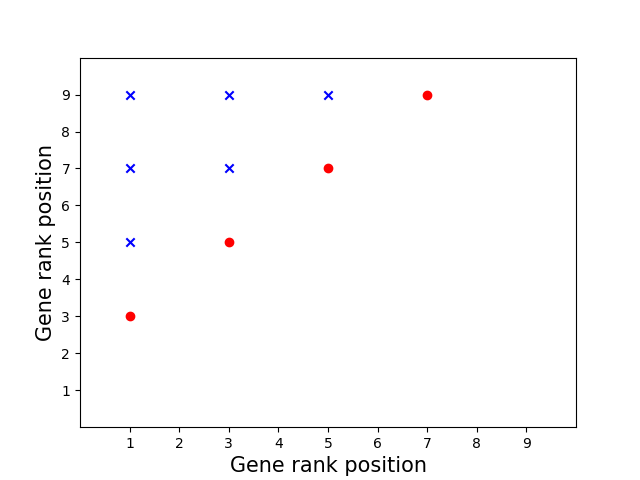
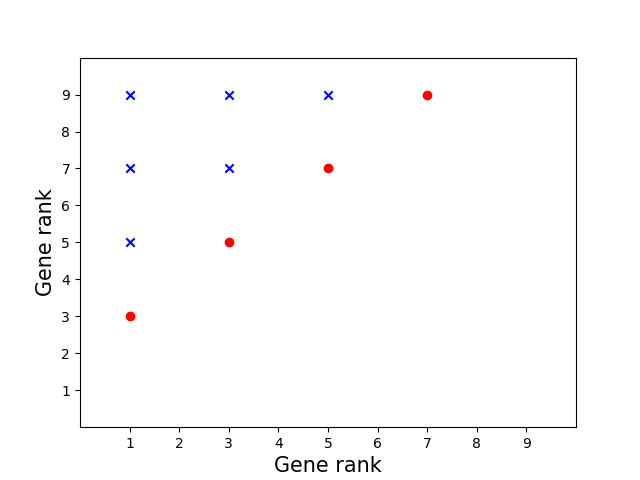
modify readme

Changed region(s): [[0.3438, 0.9375, 0.6562, 1.0], [0.0312, 0.2812, 0.0938, 0.7188]]

diff --git a/08duplicate/somedot.py b/08duplicate/somedot.py
@@ -21,6 +21,6 @@ ax.set(xlim=(0, 10), xticks=np.arange(1, 10),
        ylim=(0, 10), yticks=np.arange(1, 10))
 for xi, yi, color, marker in zip(x, y, colors, shapes):
     ax.scatter(xi, yi, c=color, marker=marker)
-ax.set_xlabel("Gene rank position", fontsize=15)
-ax.set_ylabel("Gene rank position", fontsize=15)
+ax.set_xlabel("Gene rank", fontsize=15)
+ax.set_ylabel("Gene rank", fontsize=15)
 plt.savefig('class_dot.png')
